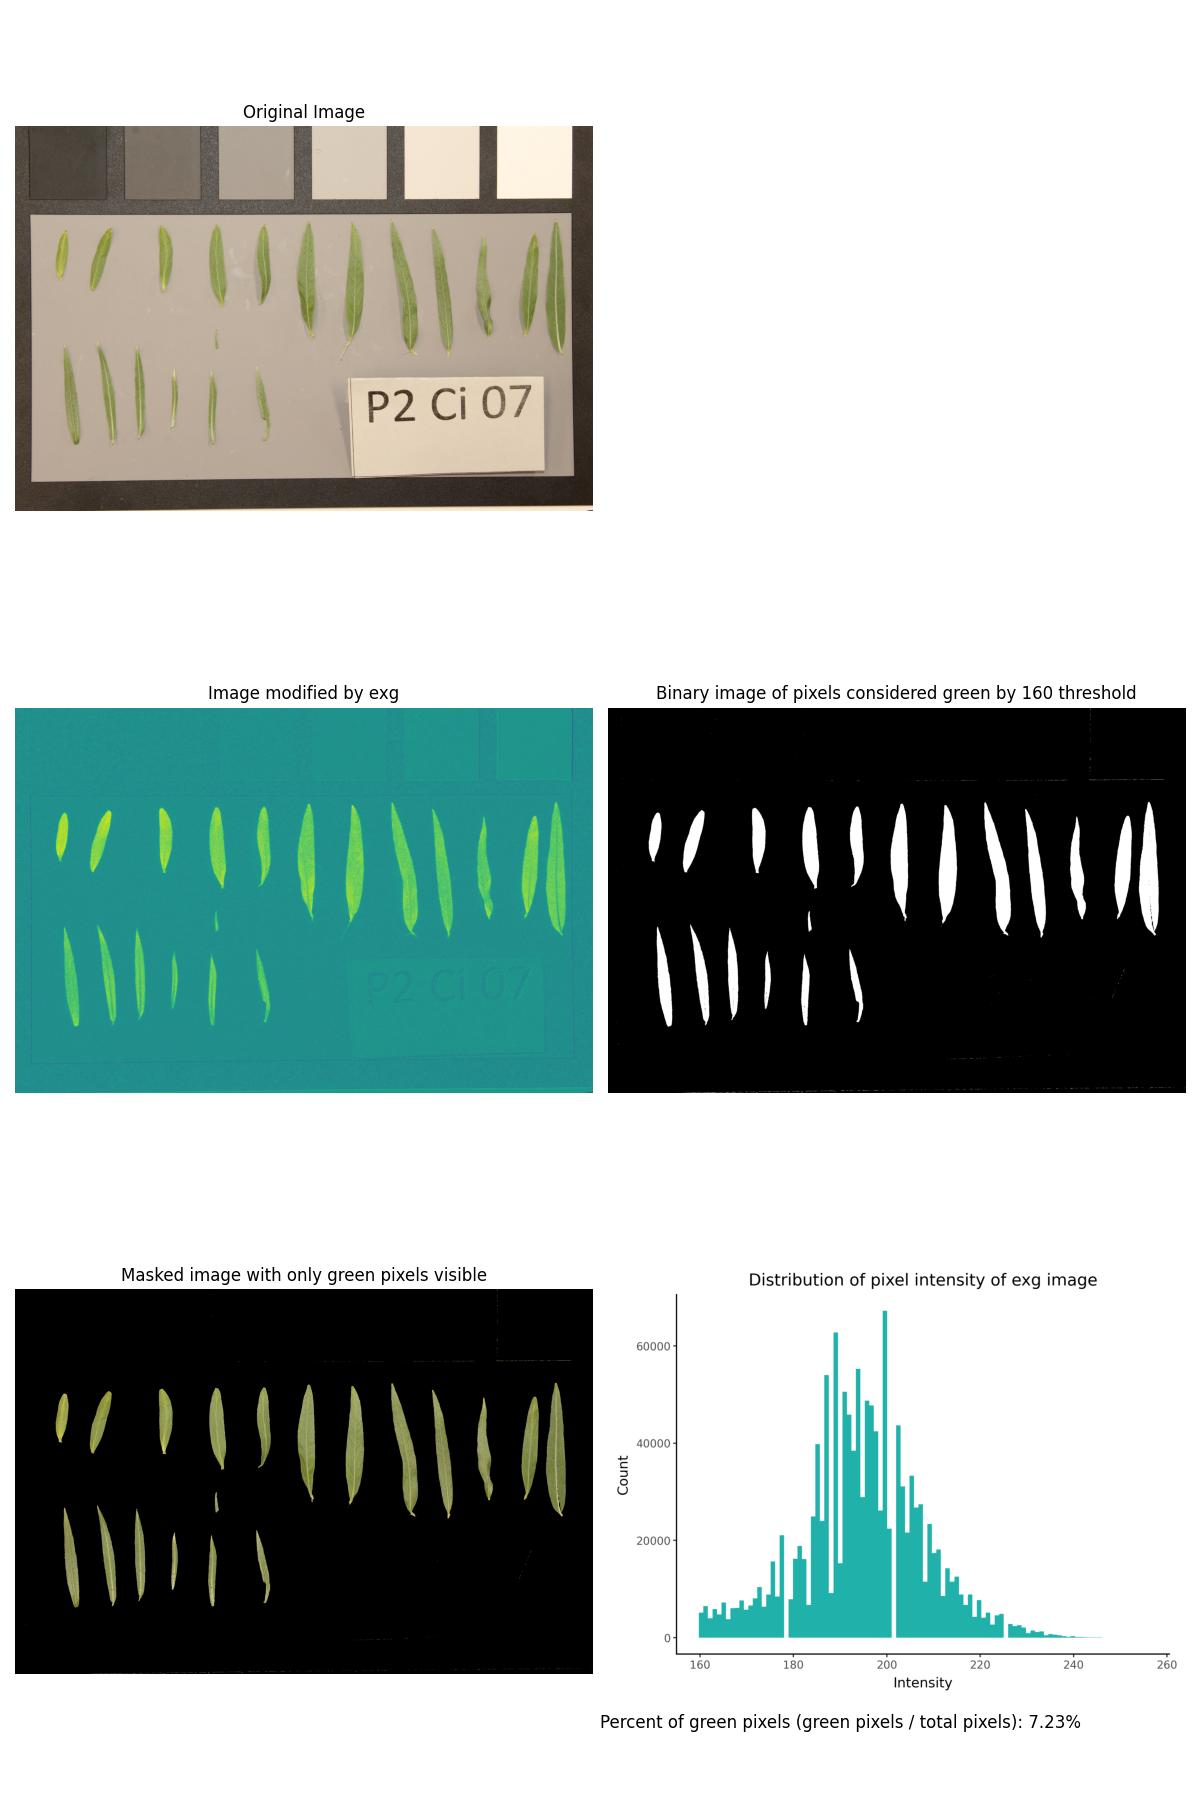
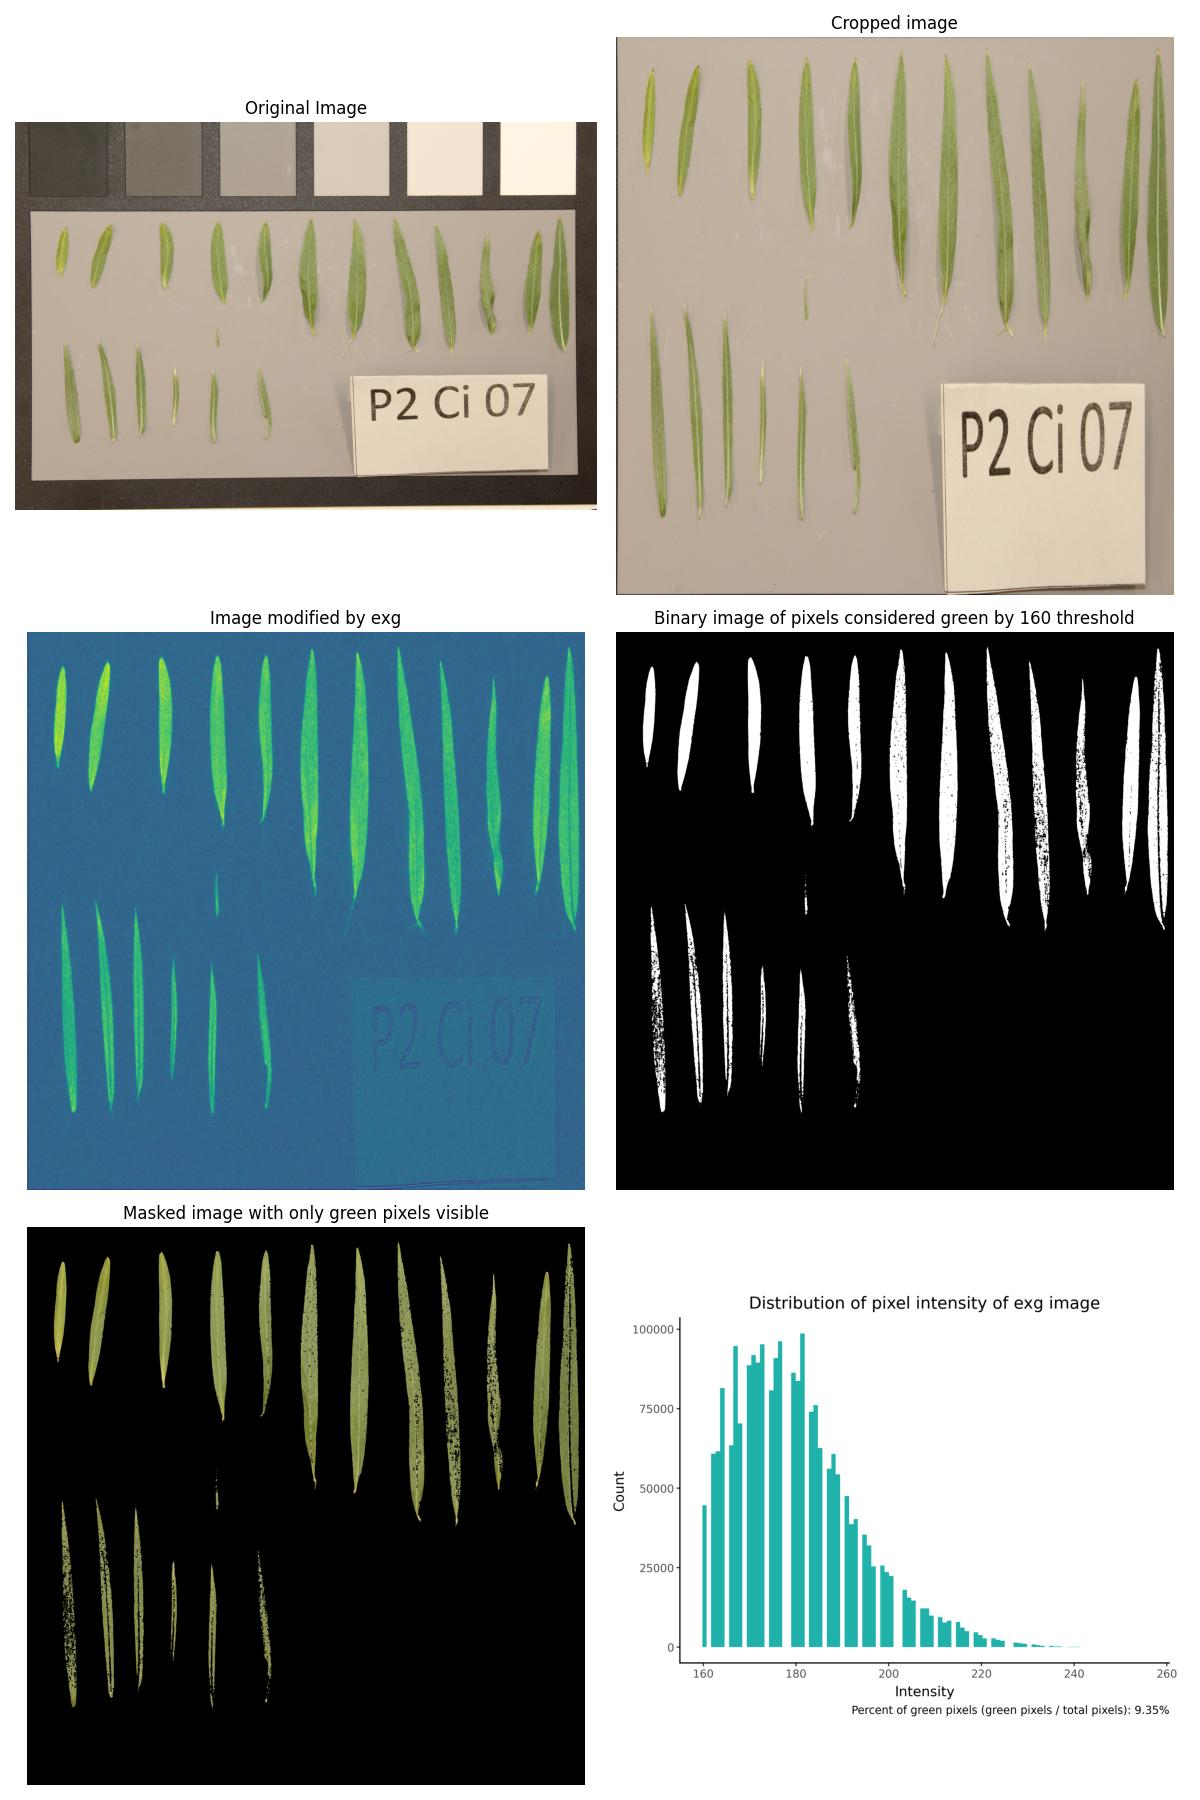
cropping images also saves them to file for later use

diff --git a/master_script.py b/master_script.py
@@ -35,12 +35,20 @@ def main():
     # Determine threshold that will differentiate between live and dead plants
     green_threshold = 160 # 130 worked well on quadrat photos. 160 worked well on willow leaf photos. 
 
+    # Determine whether your photos need to be cropped or not. 
+    crop = True
+
     # Run the process
-    run_script(path, output_path, index_type, green_threshold)
+    if crop == False:
+        run_script(path, output_path, index_type, green_threshold, crop)
+    elif crop == True: # If the image gets cropped, you can output it to a file so you only have to crop it once
+        cropped_img = run_script(path, output_path, index_type, green_threshold, crop)
+        cv2.imwrite(f'results/image_cropped.jpg', cropped_img)
 
 
 
-def run_script(path, output_path, index_type, green_threshold, denoise=False, crop=False):
+
+def run_script(path, output_path, index_type, green_threshold, crop, denoise=False,):
     '''
     Run the entire process with the parameters you specified.
 
@@ -55,13 +63,16 @@ def run_script(path, output_path, index_type, green_threshold, denoise=False, cr
         green_threshold:
             Integer. The cutoff VI value that differentiates between green 
             and not green. Example: 130 works well for images on RGBVI scale. 
+        crop:
+            Boolean. Whether you want to crop your image to a square using the napari
+            GUI or not.
         denoise:
-            Boolean. whether you want to denoise the image or not (default: False)
+            Boolean. Whether you want to denoise the image or not (default: False)
     '''
 
     # Read in the file in RGB with pyplot (must be in RGB for quadrat crop to work)
     img = plt.imread(path)
-    og_img = img # Save the original image so it can be included in the grid later
+    og_img = img # Save the original image so it can be included in the grid and saved to file later
 
     # CROP TO SQUARE
     if crop == True:
@@ -80,6 +91,9 @@ def run_script(path, output_path, index_type, green_threshold, denoise=False, cr
 
     # Calculate a percentage of pixels that are green according to your threshold cutoff
     percent_green_pixels = calc_live_plants_percentage(binary)
+
+    # Turn the percent into an actual percent
+    percent_green_pixels = percent_green_pixels * 100
 
     # Convert binary into ubyte so it can be used as a mask and displayed
     binary = img_as_ubyte(binary)
@@ -100,10 +114,11 @@ def run_script(path, output_path, index_type, green_threshold, denoise=False, cr
             pn.aes(x='intensity') + 
             pn.geom_histogram(bins = 100, fill = 'lightseagreen') +
             pn.labs(
-                 x = 'Intensity',
-                 y = 'Count',
-                 title = f'Distribution of pixel intensity of {index_type} image'
-            ) +
+                x = 'Intensity',
+                y = 'Count',
+                title = f'Distribution of pixel intensity of {index_type} image',
+                caption = f'Percent of green pixels (green pixels / total pixels): {percent_green_pixels:.2f}%'
+                ) +
             pn.theme_classic()
     )
 
@@ -145,11 +160,8 @@ def run_script(path, output_path, index_type, green_threshold, denoise=False, cr
     axs[2, 1].imshow(plot_image)
     axs[2, 1].axis('off')
 
-    # Turn the percent into an actual percent
-    percent = percent_green_pixels * 100
-
     # Add text to the figure (outside the subplots)
-    fig.text(0.5, 0.04, f'Percent of green pixels (green pixels / total pixels): {percent:.2f}%', ha='left', fontsize=12)
+    # fig.text(0.5, 0.04, f'Percent of green pixels (green pixels / total pixels): {percent:.2f}%', ha='left', fontsize=12)
 
 
     plt.tight_layout()
@@ -159,6 +171,9 @@ def run_script(path, output_path, index_type, green_threshold, denoise=False, cr
 
     # Close the plot so it doesn't slurp up all the memory
     plt.close()
+
+    if crop == True: 
+        return cropped_img
 
 
 main()

diff --git a/master_script_on_multiple_images.py b/master_script_on_multiple_images.py
@@ -1,3 +1,4 @@
+import cv2
 import glob
 from master_script import run_script
 
@@ -10,16 +11,16 @@ index_type = 'rgbvi'
 green_threshold = 130
 
 for i, path in enumerate(glob.glob(folder)):
-    # Skip the ones I've already done
-    if i <= 19:
-        continue
-    else:
+    # # Skip the ones I've already done
+    # if i <= 19:
+    #     continue
+    # else:
         output_path = f'results/master_script_output/all_photos/grid_{i}.jpg'
 
-        run_script(path, output_path, index_type, green_threshold, crop=True)
+        cropped_img = run_script(path, output_path, index_type, green_threshold, crop=True)
+
+        # Save the cropped images so you never have to go through that process again
+        cv2.imwrite(f'raw_photos_cropped/image_{i}')
 
         print('function has run for', path)
 
-'''
-last one: function has run for raw_photos\20240613_124346.jpg
-'''
